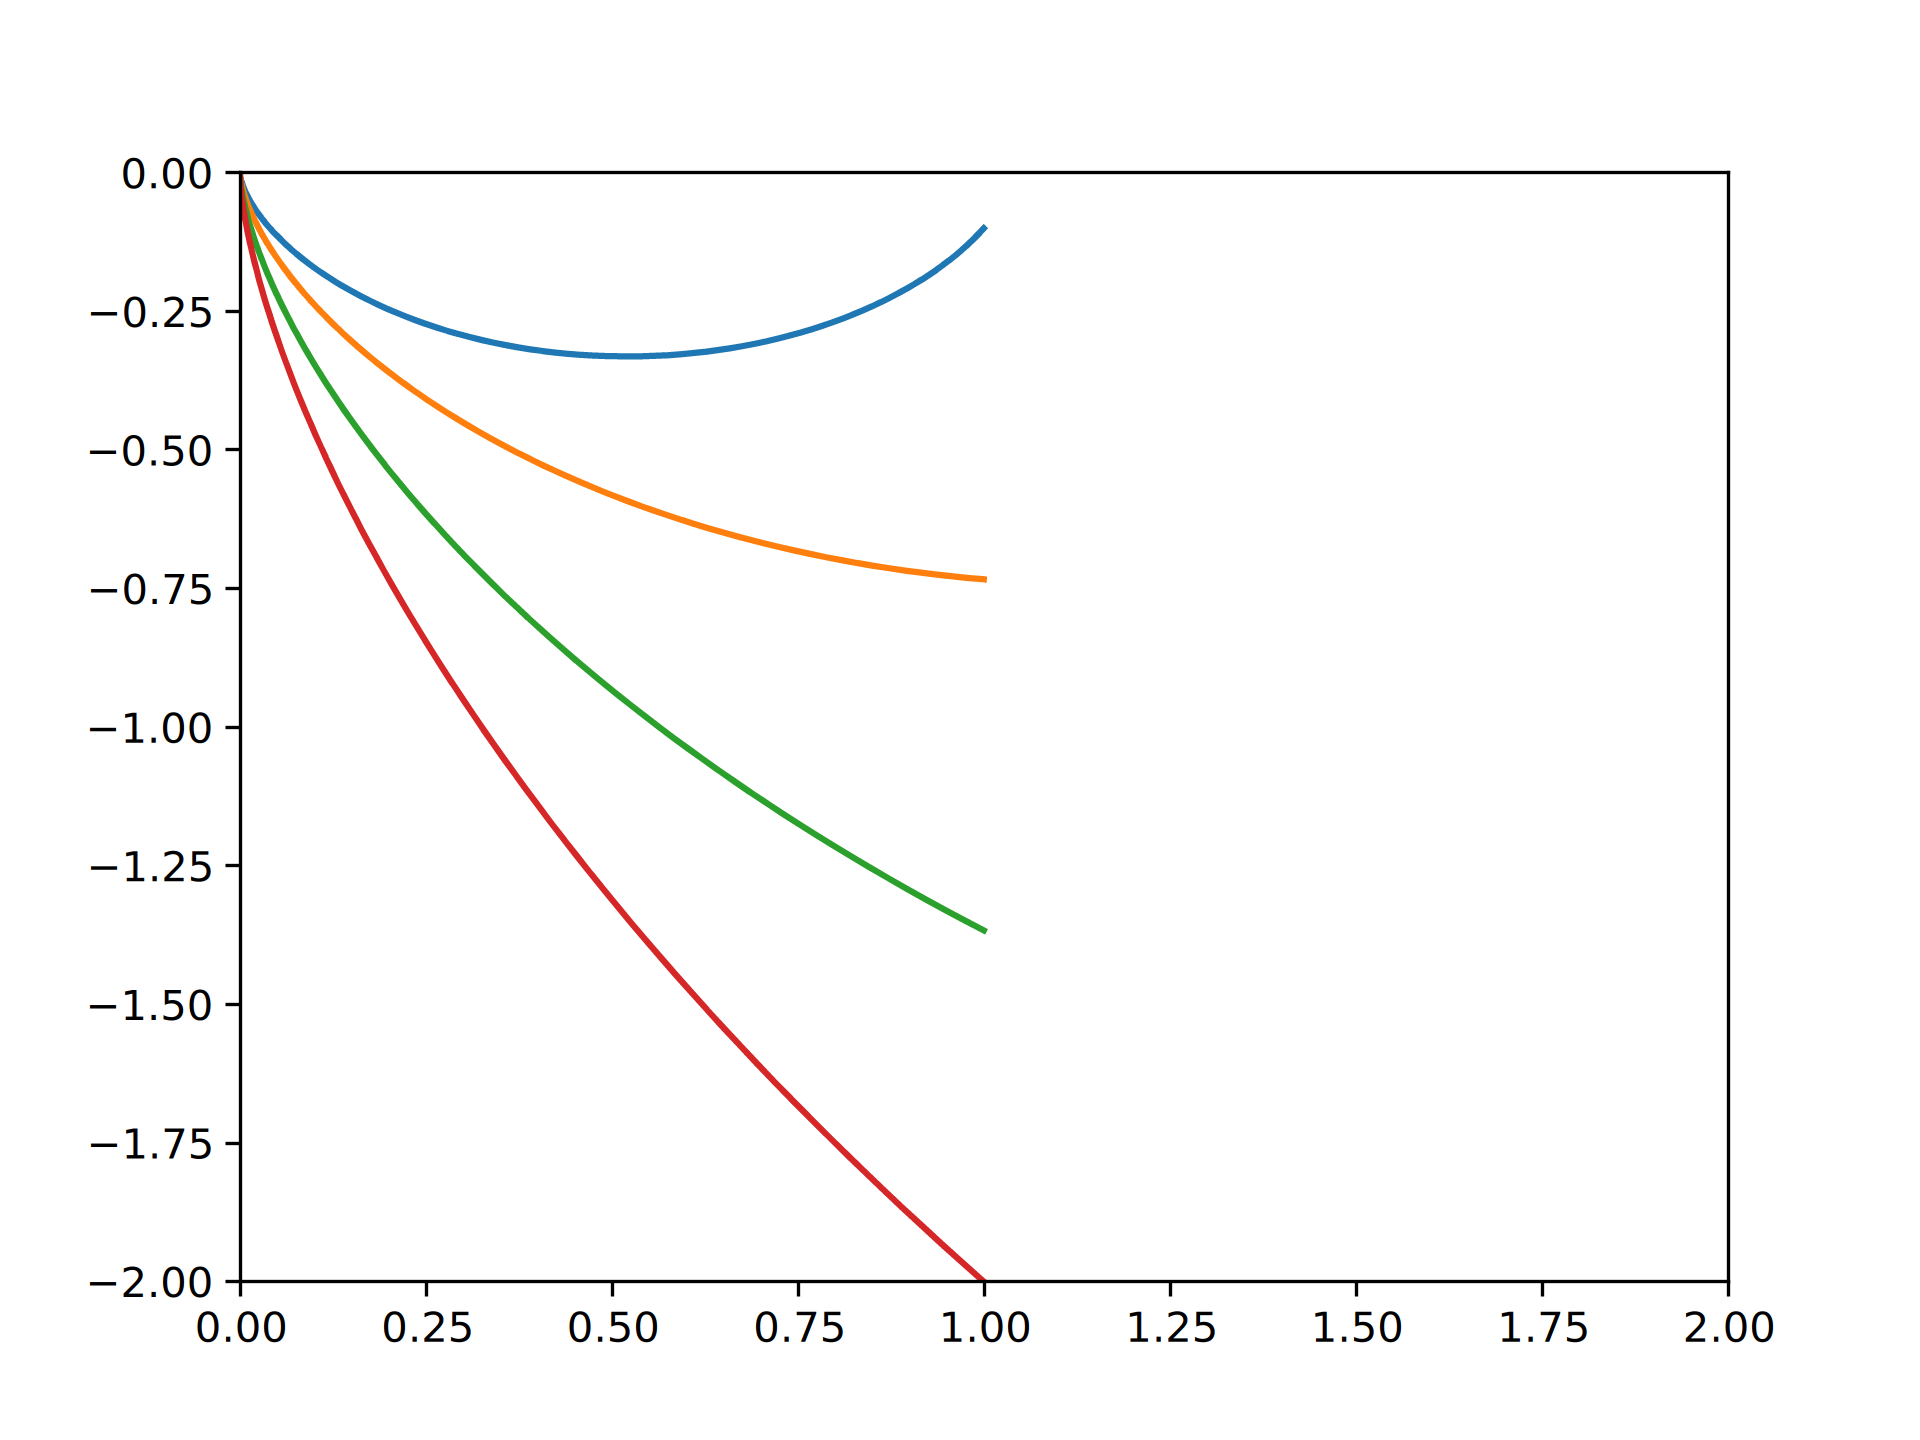
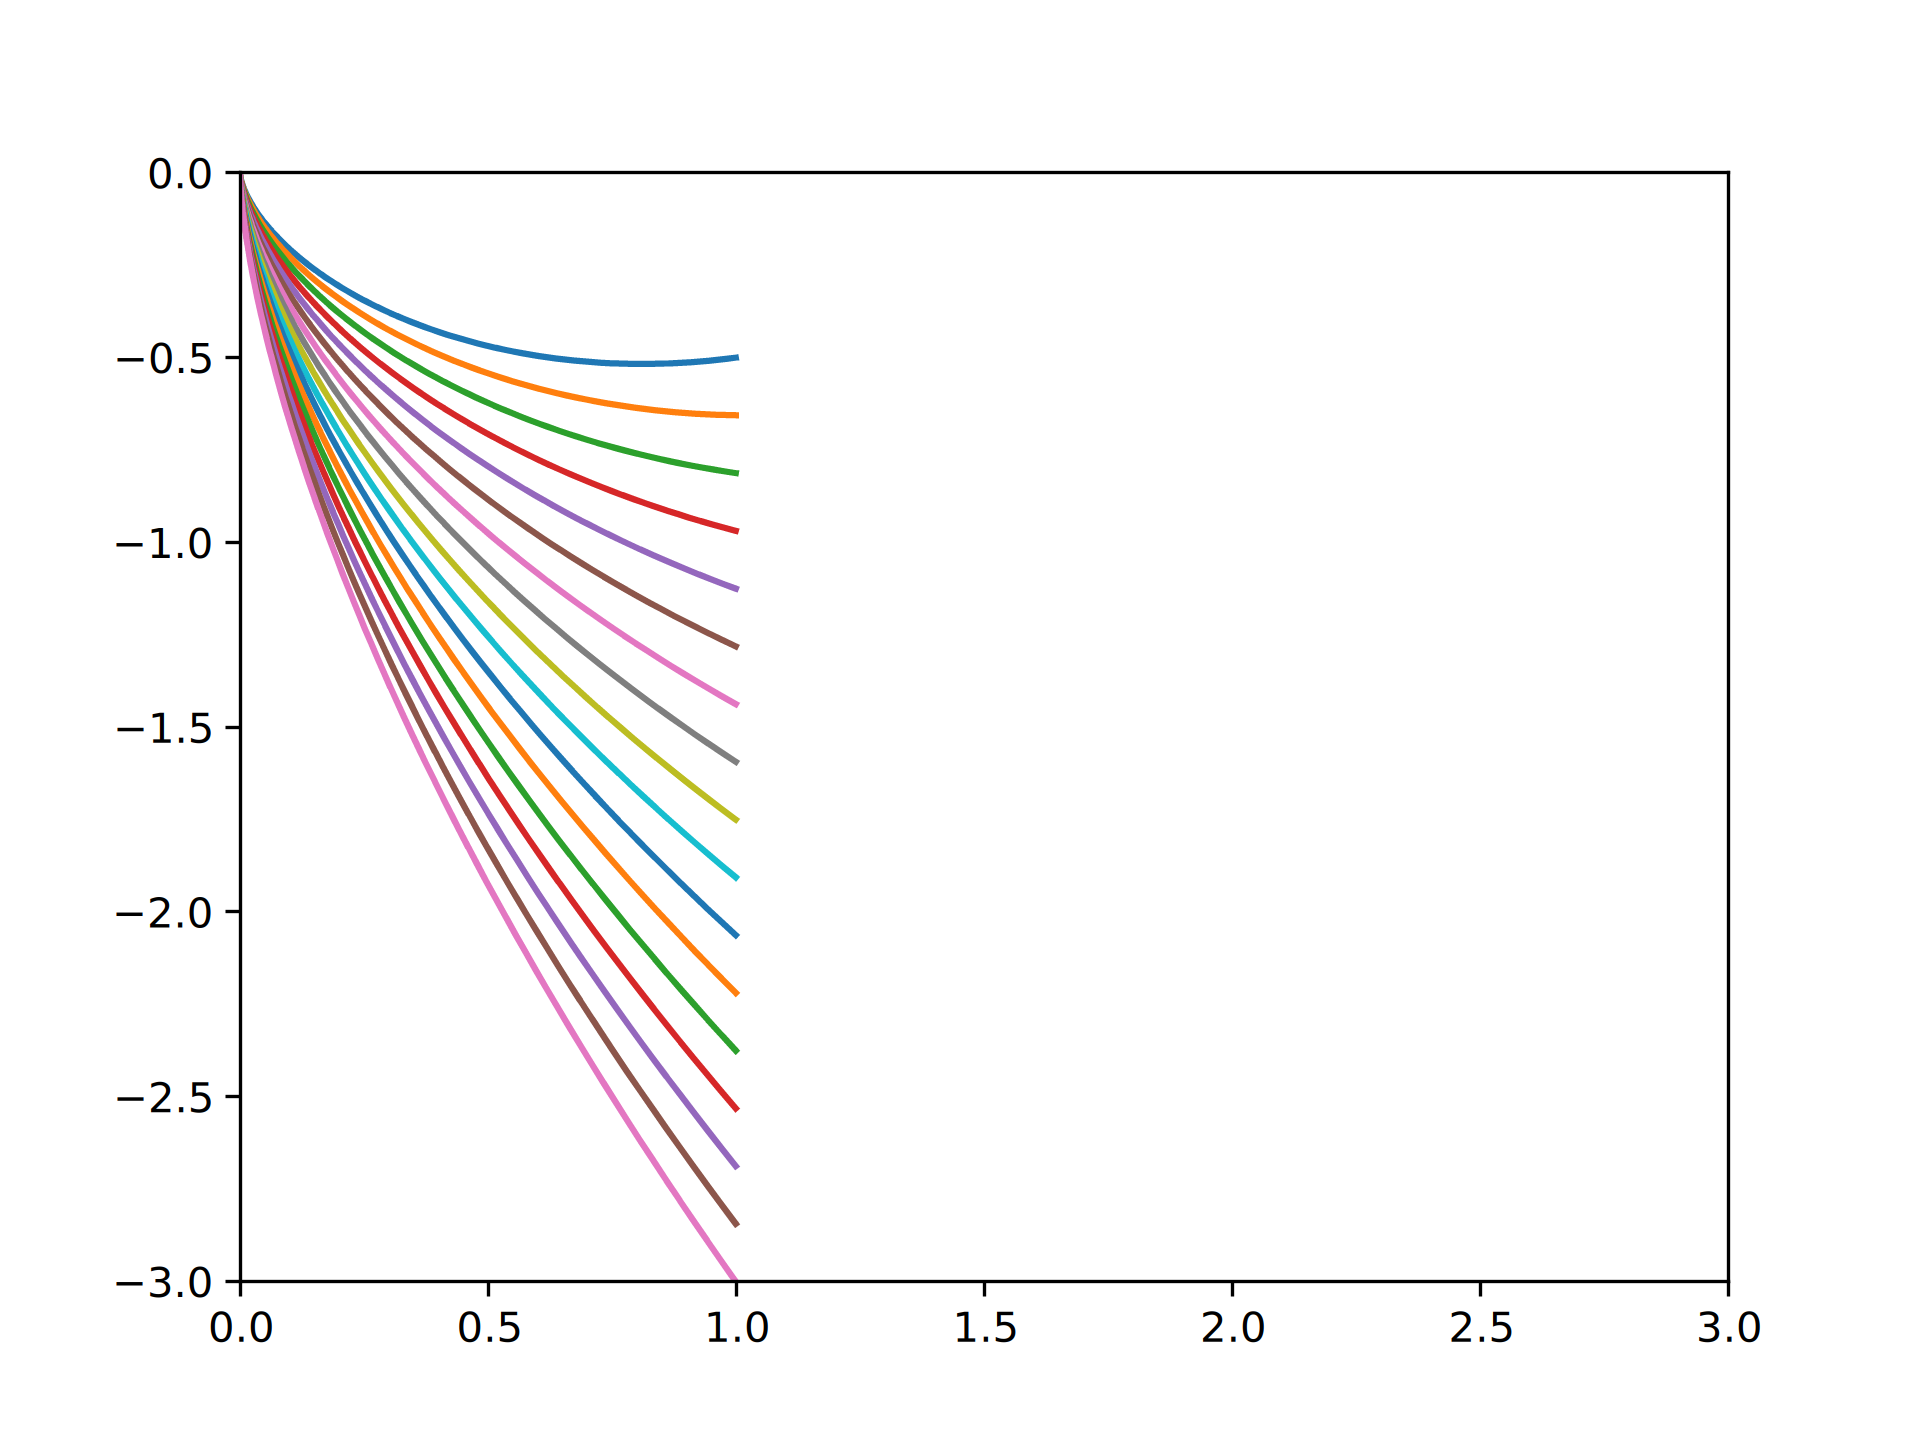
Updata raw data

diff --git a/investigation/main.py b/investigation/main.py
@@ -71,11 +71,11 @@ def format_data(data):
     for entry in data:
         angle, x, y = entry.values()
         angle, x, y = (
-            format(angle, ".4f"),
-            [format(n, ".4e") for n in x],
-            [format(n, ".4e") for n in y],
+            format(angle, ".3f"),
+            [format(n, ".3e") for n in x],
+            [format(n, ".3e") for n in y],
         )
-        output += f"ANGLE: {angle}\nx: {x}\ny: {y}\n\n"
+        output += f"ANGLE: {angle}deg\nx: {x}\ny: {y}\n\n"
     return output[:-2]  # trim last \n
 
 
@@ -86,22 +86,21 @@ if __name__ == "__main__":
     mpl.use("module://mplcairo.gtk")
 
     raw_data = []
-    x2 = 1
-    for y2 in np.linspace(0.1, 2, 4):
+    angles = np.linspace(5, 85, 17)
+    print(angles)
+    for it, y2 in enumerate(np.linspace(0.5, 3, 17)):
         x, y = cycloid(1, y2)
         y *= -1
-        angle = (math.pi / 2) - ((y2 / 2) * (math.pi / 2))
-        print(angle)
-        raw_data.append({"angle": angle, "x": x, "y": y})
+        raw_data.append({"angle": angles[it], "x": x, "y": y})
 
     data = format_data(raw_data)
     with open(f"{PATH}/raw_data.txt", "w") as file:
         file.write(data)
 
-    # for entry in raw_data:
-    #     _, x, y = entry.values()
-    #     plt.plot(x, y)
-    # lim = max(max(x), max(abs(y)))
-    # plt.xlim(0, lim)
-    # plt.ylim(-lim, 0)
-    # plt.savefig(f"{PATH}/processed_data.png", dpi=300)
+    for entry in raw_data:
+        _, x, y = entry.values()
+        plt.plot(x, y)
+    lim = max(max(x), max(abs(y)))
+    plt.xlim(0, lim)
+    plt.ylim(-lim, 0)
+    plt.savefig(f"{PATH}/processed_data.png", dpi=300)
